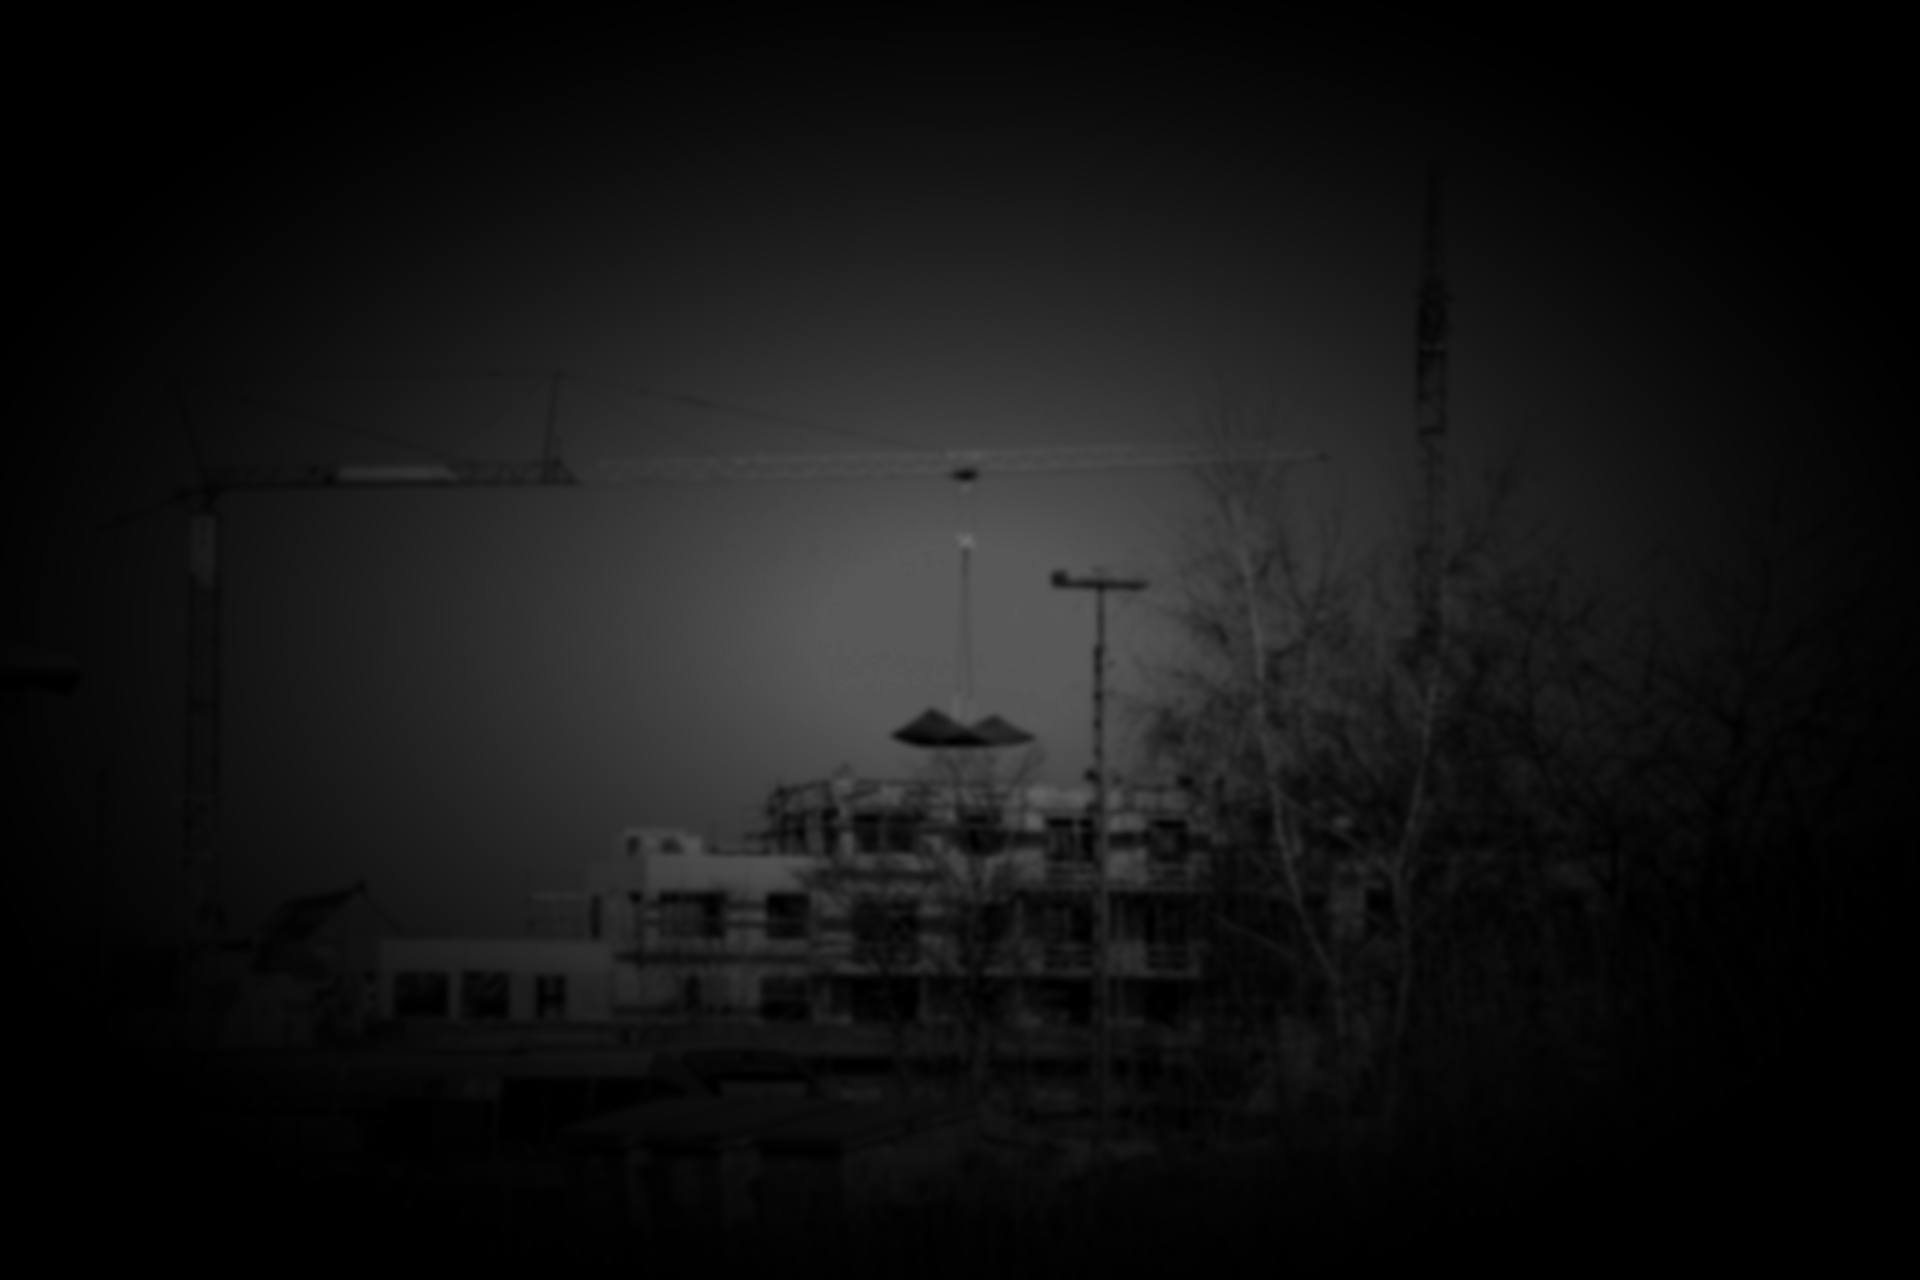
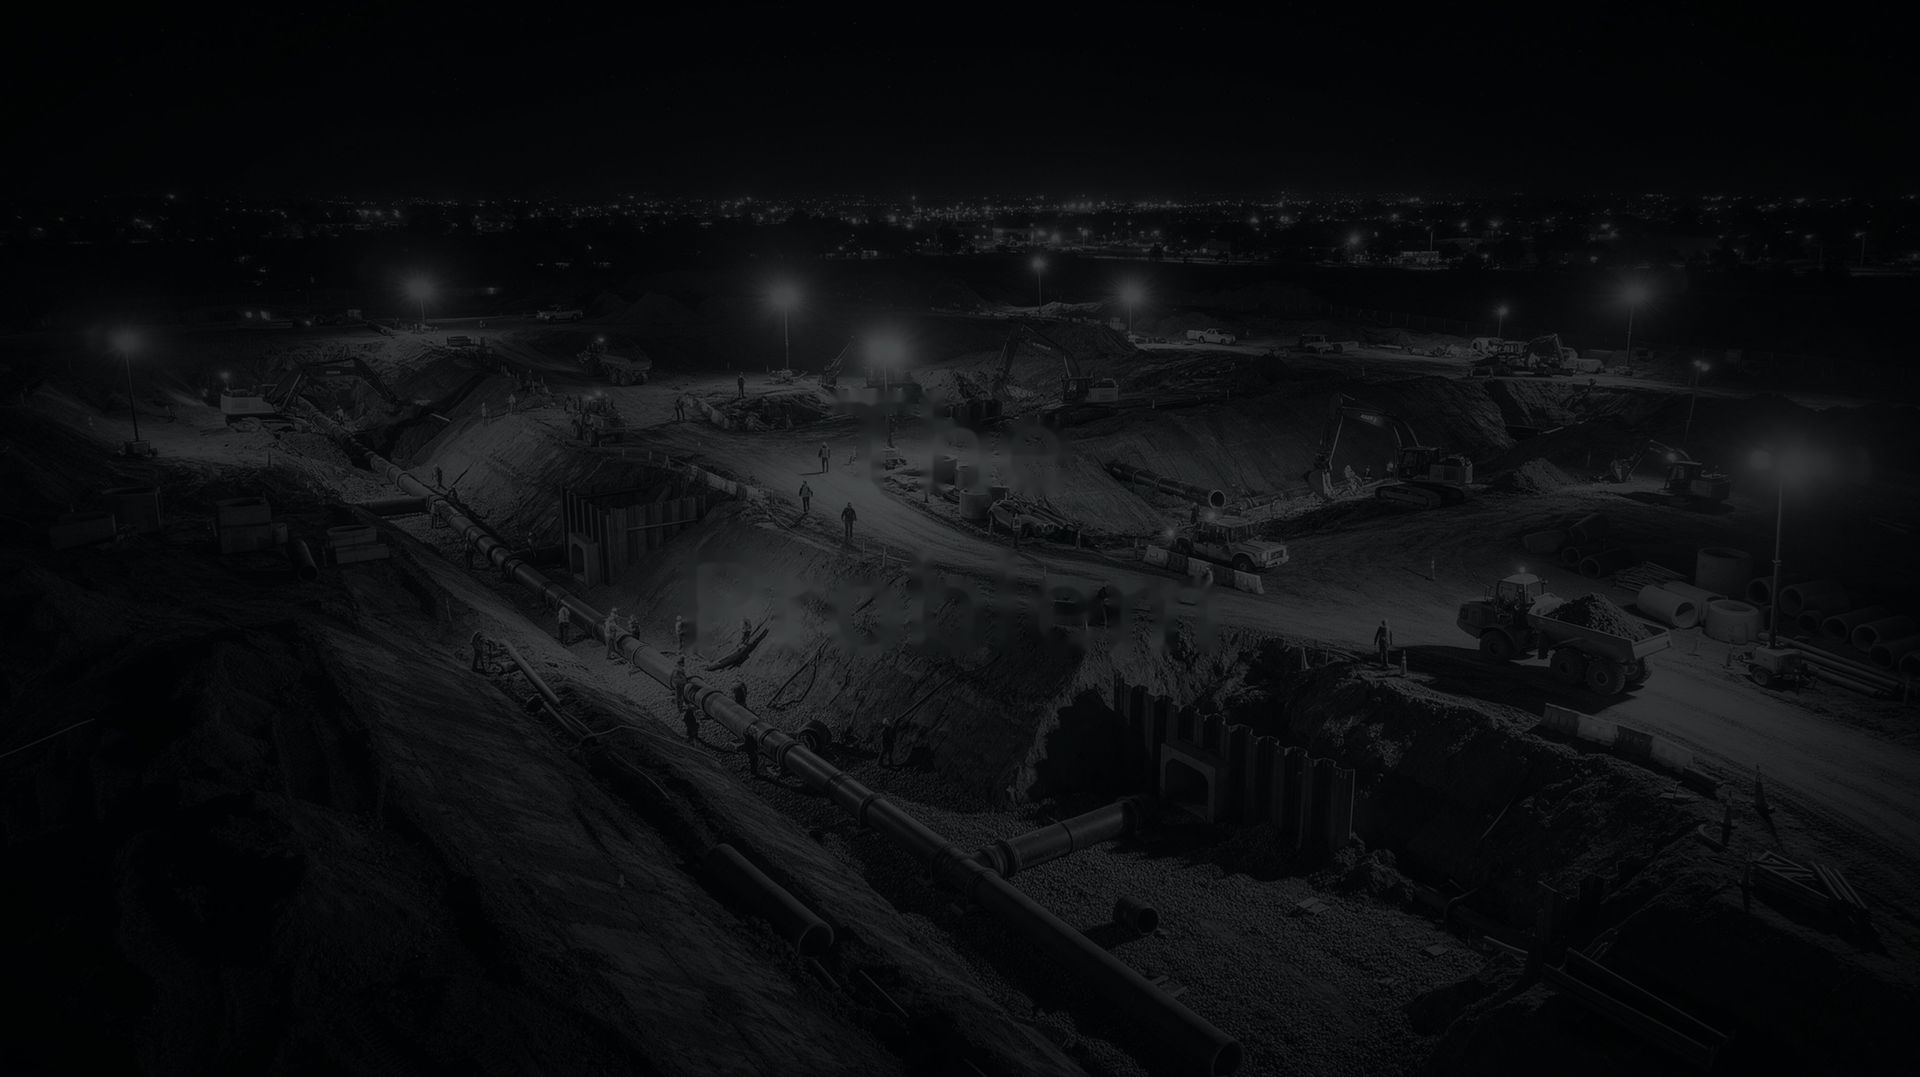
Login: use The Problem slide night site background (replaces earlier photo), thin orange metallic edge and subtle glow on login box

diff --git a/screens/01-login-dark.html b/screens/01-login-dark.html
@@ -25,7 +25,7 @@
 html, body { width:1440px; height:900px; overflow:hidden; font-family:Inter,system-ui,sans-serif; }
 .login-bg {
   position:absolute; inset:0;
-  background: #000 url('bg-login-site.jpg') center / cover no-repeat;
+  background: radial-gradient(ellipse at center, rgba(0,0,0,0.25), rgba(0,0,0,0.05) 70%), #000 url('bg-login-site.jpg') center / cover no-repeat;
 }
 .card {
   position:absolute; left:50%; top:50%; transform:translate(-50%,-50%);
@@ -70,7 +70,7 @@ html, body { width:1440px; height:900px; overflow:hidden; font-family:Inter,syst
 .brand-tag { display: flex; align-items: center; justify-content: center; gap: 10px; text-transform: none !important; letter-spacing: 0.04em !important; font-size: 12px !important; color: rgba(220,225,230,0.6) !important; }
 .brand-tag img { height: 22px; width: auto; display: block; }
 @media (max-width: 1199px) { .card { width: min(420px, calc(100vw - 28px)) !important; padding: 32px 22px 28px !important; } .field, .btn { height: 50px !important; font-size: 15px !important; } .card .hint { font-size: 14px !important; } }
-.card { background: #050505 !important; border: 1px solid rgba(160,160,160,0.28) !important; box-shadow: 0 24px 64px rgba(0,0,0,0.6) !important; }
+.card { border: 1px solid transparent !important; background: linear-gradient(#050505,#050505) padding-box, linear-gradient(135deg,#B8501A 0%,#FF9A50 35%,#C85A20 60%,#FF9A50 85%,#B8501A 100%) border-box !important; box-shadow: inset 0 1px 0 rgba(255,255,255,0.06), 0 0 14px rgba(240,110,30,0.16), 0 22px 50px rgba(0,0,0,0.7) !important; }
 .field { background: #0d0d0d !important; border-color: rgba(160,160,160,0.25) !important; color: rgba(220,220,220,0.6) !important; }
 .btn { background: #F06E1E !important; color: #fff !important; box-shadow: 0 8px 22px rgba(240,110,30,0.35) !important; cursor: pointer; transition: background .15s; }
 .btn:hover { background: #FF8236 !important; }
